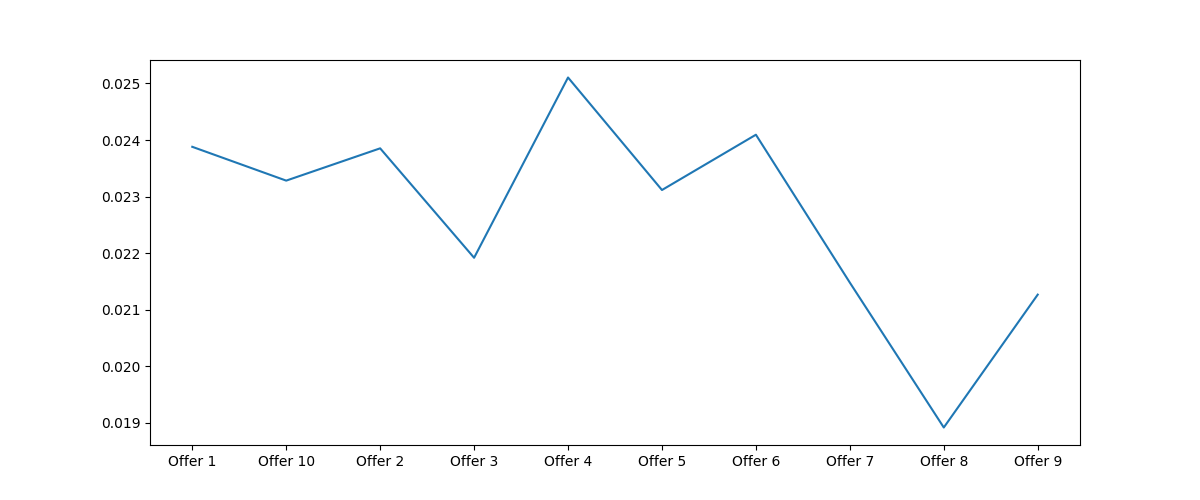
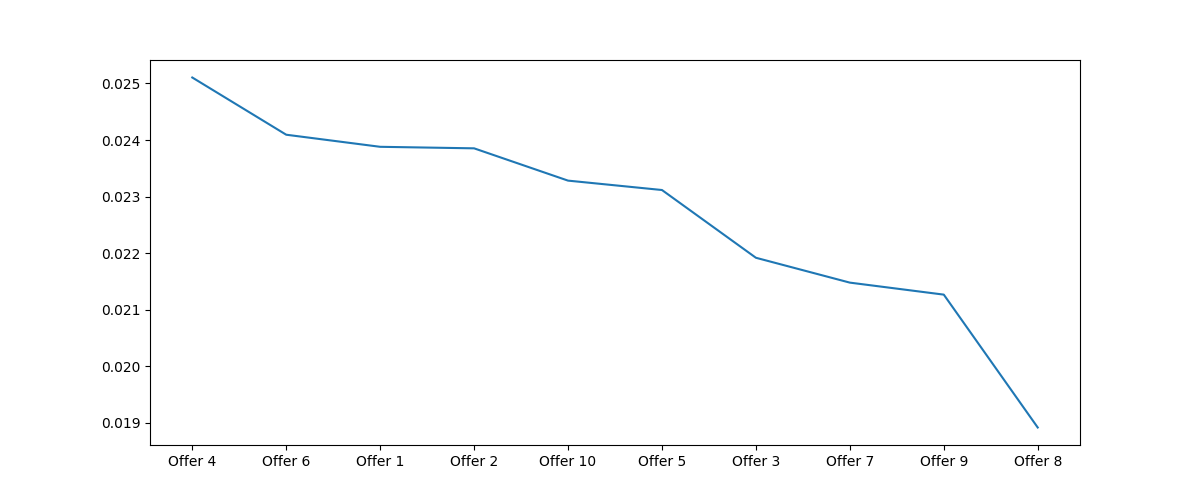
final check

diff --git a/main.py b/main.py
@@ -197,7 +197,7 @@ def plot_response_rate(sql):
     df = OfferResponded.TotRevenue/OfferSent.UserId
 
     plt.figure(figsize=(12, 5))
-    plt.plot(df)
+    plt.plot(df.sort_values(ascending=False))
 
     plt.show()
     plt.savefig('graph/Response Rate.png')
